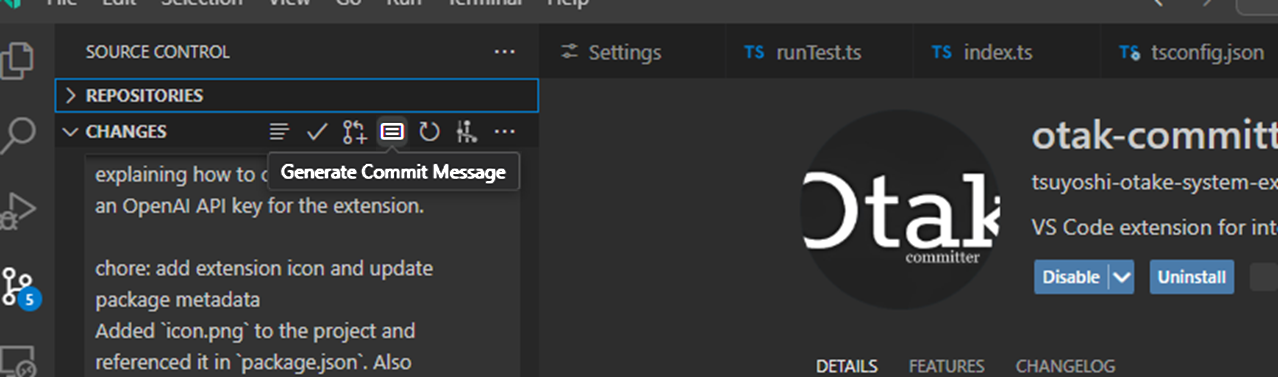
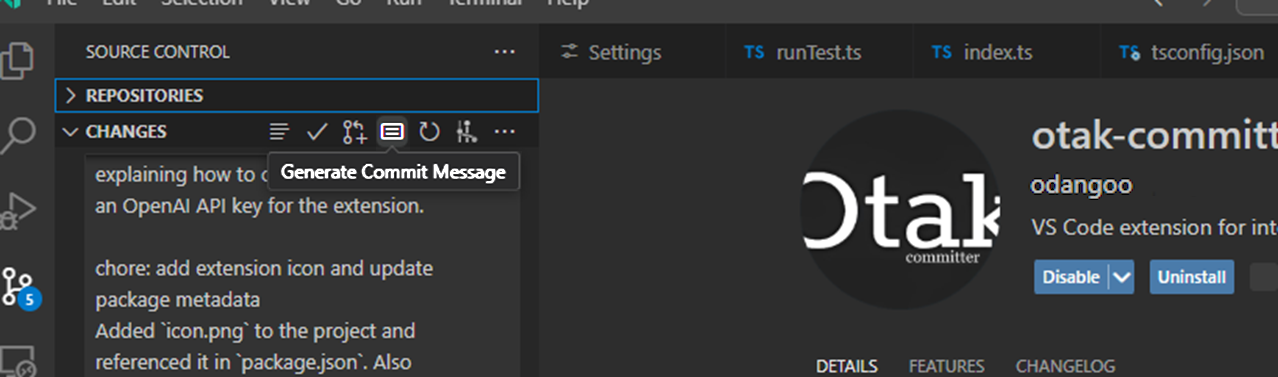
feat: release initial version 0.0.1 with multilingual commit message generation
- Renamed extension from "vscode-scm-comitter" to "otak-committer"
- Added support for multilingual commit message generation (9 languages)
- Introduced flexible message styles: Simple, Normal, and Detailed
- Integrated with Git SCM in VS Code, including a dedicated button
- Updated `CHANGELOG.md` with release details
- Changed publisher name from "tsuyoshi-otake-system-exe-jp" to "odangoo"
- Updated `package.json` and `package-lock.json` to require VS Code ^1.9.0 instead of ^1.97.0
- Added new image asset `odangoo.png` and updated `generate-commit-message.png`

Changed region(s): [[0.7934, 0.4668, 1.0, 0.5252]]

diff --git a/CHANGELOG.md b/CHANGELOG.md
@@ -1,9 +1,33 @@
 # Change Log
 
-All notable changes to the "vscode-scm-comitter" extension will be documented in this file.
+All notable changes to the "otak-committer" extension will be documented in this file.
 
 Check [Keep a Changelog](http://keepachangelog.com/) for recommendations on how to structure this file.
 
-## [Unreleased]
+## [0.0.1] - 2025-02-16
 
-- Initial release
+### Added
+- **Multilingual Commit Message Generation**: Support for 9 languages
+  - 🇺🇸 English
+  - 🇫🇷 French (Français)
+  - 🇩🇪 German (Deutsch)
+  - 🇮🇹 Italian (Italiano)
+  - 🇯🇵 Japanese (日本語)
+  - 🇨🇳 Chinese (中文)
+  - 🇰🇷 Korean (한국어)
+  - 🇻🇳 Vietnamese (Tiếng Việt)
+  - 🇷🇺 Russian (Русский)
+
+- **Flexible Message Styles**: Three levels of detail
+  - Simple: Concise summary (100 tokens)
+  - Normal: Standard length with context (200 tokens)
+  - Detailed: Comprehensive explanation (500 tokens)
+
+- **Git SCM Integration**
+  - Dedicated button in VS Code's Git interface
+  - Seamless integration with SCM view
+
+### Requirements
+- Visual Studio Code ^1.97.0
+- Git installed and configured
+- OpenAI API key (GPT-4o enabled)
